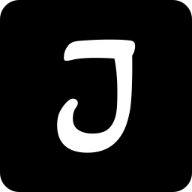
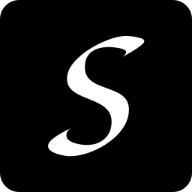
first commit

Changed region(s): [[0.25, 0.1875, 0.75, 0.8438]]

diff --git a/index.html b/index.html
@@ -4,7 +4,7 @@
 <head>
     <meta charset="utf-8">
     <meta name="viewport" content="width=device-width, initial-scale=1">
-    <title>Lakshmi Jyothi</title>
+    <title>Sai Sarayu</title>
 
     <link href="https://cdn.jsdelivr.net/npm/bootstrap@5.3.0/dist/css/bootstrap.min.css" rel="stylesheet"
         integrity="sha384-9ndCyUaIbzAi2FUVXJi0CjmCapSmO7SnpJef0486qhLnuZ2cdeRhO02iuK6FUUVM" crossorigin="anonymous">
@@ -13,6 +13,11 @@
         integrity="sha384-9ndCyUaIbzAi2FUVXJi0CjmCapSmO7SnpJef0486qhLnuZ2cdeRhO02iuK6FUUVM" crossorigin="anonymous">
 
     <link rel="stylesheet" href="https://cdn.jsdelivr.net/npm/bootstrap-icons@1.10.5/font/bootstrap-icons.css">
+
+    <link rel="apple-touch-icon" sizes="180x180" href="/apple-touch-icon.png">
+    <link rel="icon" type="image/png" sizes="32x32" href="/favicon-32x32.png">
+    <link rel="icon" type="image/png" sizes="16x16" href="/favicon-16x16.png">
+    <link rel="manifest" href="/site.webmanifest">
 
     <link rel="apple-touch-icon" sizes="180x180" href="/apple-touch-icon.png">
     <link rel="icon" type="image/png" sizes="32x32" href="/favicon-32x32.png">
@@ -32,7 +37,7 @@
     <!-- Navbar Start -->
     <nav class="navbar navbar-expand-lg navbar-dark bg-dark fixed-top">
         <div class="container-fluid">
-            <a class="Logo navbar-brand" href="#">Lakshmi Jyothi Portfolio</a>
+            <a class="Logo navbar-brand" href="#">Sai Sarayu Portfolio</a>
             <button class="navbar-toggler" type="button" data-bs-toggle="collapse" data-bs-target="#navbarNav"
                 aria-controls="navbarNav" aria-expanded="false" aria-label="Toggle navigation">
                 <span class="navbar-toggler-icon"></span>
@@ -68,8 +73,8 @@
         <div class="container-fluid">
             <div class="row">
                 <div class="col-md-12 bannerText">
-                    <h2 class="bannerTitle">I'm Lakshmi Jyothi</h2>
-                    <p class="bannerDesc">A Web Developer</p>
+                    <h2 class="bannerTitle">I'm Sai Sarayu</h2>
+                    <p class="bannerDesc">A Front-End Developer</p>
                 </div>
             </div>
         </div>
@@ -82,7 +87,7 @@
             <h1 class="text-center mainhead">About Me</h1>
             <div class="row">
                 <div class="myimg col-md-4">
-                    <img src="/Images/profilepic.jpg" alt="ProfilePicture" class="card-img img-fluid" style="height: 100vh; width: 45vh;">
+                    <img src="/Images/profilepic1.jpg" alt="ProfilePicture" class="card-img img-fluid" style="height: 90vh; width: 50vh;">
                 </div>
                 <div class="col-md-8">
                     <div class="intro shadow p-3 mb-5 rounded" style="background-color: transparent;">
@@ -90,14 +95,13 @@
                             <div class="card-body">
                                 <div class="h4 mt-0 title"></div>
                                 <p class="fline">
-                                    Hello! I am<span class="fname"> Lakshmi Jyothi Maram</span> Web Developer, and
+                                    Hello! I am<span class="fname"> Sai Sarayu Kothamachu</span> Front-End Developer, and
                                     Python programmer.
                                 </p>
                                 <p class="objec">
-                                    Student studying computer science for a B.Tech degree who is results-oriented and
-                                    extremely motivated. having a solid grounding in programming languages, data
-                                    structures, and algorithms, as well as being skilled in frontend technologies and
-                                    database management systems. I'm looking for a challenging role where I can use my
+                                    Student studying Electronics and Communications for a B.Tech degree who is results-oriented and
+                                    extremely motivated. Having a solid grounding in programming languages, data
+                                    structures, and algorithms, as well as being skilled in frontend technologies. I'm looking for a challenging role where I can use my
                                     knowledge of technology and enthusiasm for it to support a cutting-edge company. I
                                     hope to have a good influence by applying my problem-solving skills, collaborative
                                     talents, and commitment to excellence. I am committed to lifelong learning and
@@ -114,7 +118,7 @@
                                     <div class="col-sm-4">
                                         <strong class="sidehead text-uppercase bold-text">Full Name:</strong>
                                     </div>
-                                    <div class="col-sm-8">Maram Lakshmi Jyothi</div>
+                                    <div class="col-sm-8">Kothamachu Sai Sarayu</div>
                                 </div>
                                 <div class="row mt-3">
                                     <div class="col-sm-4">
@@ -126,20 +130,20 @@
                                     <div class="col-sm-4">
                                         <strong class="sidehead text-uppercase bold-text">Email:</strong>
                                     </div>
-                                    <div class="col-sm-8">maramjyothi23@gmail.com</div>
+                                    <div class="col-sm-8">kothamachusarayu@gmail.com</div>
                                 </div>
                                 <div class="row mt-3">
                                     <div class="col-sm-4">
                                         <strong class="sidehead text-uppercase bold-text">Phone:</strong>
                                     </div>
-                                    <div class="col-sm-8">+91 938-126-4088</div>
+                                    <div class="col-sm-8">+91 709-387-7922</div>
                                 </div>
                                 <div class="row mt-3">
                                     <div class="col-sm-4">
                                         <strong class="sidehead text-uppercase bold-text">Address:</strong>
                                     </div>
                                     <div class="col-sm-8">
-                                        No: 2-257, Old Town, Macherla, Palnadu.
+                                        No: 201- 2nd floor , Sri Vasavi towers, 15th-ward, Macherla, Palnadu.
                                     </div>
                                 </div>
                                 <div class="row mt-3">
@@ -180,32 +184,14 @@
                                     <div class="progress-title">
                                         <h4 class="skilltitle">Python Programming</h4>
                                         <div class="progress">
-                                            <div class="progress-bar" style="width: 80%; background: #ffcc33;">
-                                                <div class="progress-value">80%</div>
+                                            <div class="progress-bar" style="width: 70%; background: #ffcc33;">
+                                                <div class="progress-value">70%</div>
                                             </div>
                                         </div>
                                     </div>
                                 </div>
-                                <div class="col-md-12 mt-3">
-                                    <div class="progress-title">
-                                        <h4 class="skilltitle">MEAN Stack ( MongoDB, ExpressJS, AngularJS, NodeJS )</h4>
-                                        <div class="progress">
-                                            <div class="progress-bar" style="width: 50%; background: #ffcc33;">
-                                                <div class="progress-value">50%</div>
-                                            </div>
-                                        </div>
-                                    </div>
-                                </div>
-                                <div class="col-md-12 mt-3">
-                                    <div class="progress-title">
-                                        <h4 class="skilltitle">Java Programming</h4>
-                                        <div class="progress">
-                                            <div class="progress-bar" style="width: 75%; background: #ffcc33;">
-                                                <div class="progress-value">75%</div>
-                                            </div>
-                                        </div>
-                                    </div>
-                                </div>
+                                
+                                
                                 <div class="col-md-12 mt-3">
                                     <div class="progress-title">
                                         <h4 class="skilltitle">Data Structures</h4>
@@ -218,10 +204,10 @@
                                 </div>
                                 <div class="col-md-12 mt-3">
                                     <div class="progress-title">
-                                        <h4 class="skilltitle">Machine Learning</h4>
+                                        <h4 class="skilltitle">Computer Networks</h4>
                                         <div class="progress">
-                                            <div class="progress-bar" style="width: 75%; background: #ffcc33;">
-                                                <div class="progress-value">75%</div>
+                                            <div class="progress-bar" style="width: 60%; background: #ffcc33;">
+                                                <div class="progress-value">60%</div>
                                             </div>
                                         </div>
                                     </div>
@@ -243,50 +229,19 @@
                 <div class="col-md-6">
                     <div class="card my-3">
                         <div class="donepro card-body2">
-                            <h5 class="card-title text-center"><i class="bi bi-android2 BIcon"></i> Android Project
+                            <h5 class="card-title text-center"><i class="bi bi-car-front-fill"></i> VEHICLE ACCIDENT DETECTION SYSTEM USING IOT
                             </h5>
-                            <img src="/Images/AndroidProject.jpg" class="pro card-img-top" alt="..."
+                            <img src="/Images/iotproject.jpg" class="pro card-img-top" alt="..."
                                 style="height: 45vh; padding: 25px;">
                             <div class="card-body">
-                                <p class="prodesc card-text">This is a project in which my Team had created an Android
-                                    Application, which is used to identify and test the strength of the Bridges present
-                                    in the particular region.</p>
+                                <p class="prodesc card-text">My role as team lead in this project, In this device we used some sensor for detection and informing like Vibration Sensor for
+                                    Accident detection, IR Sensor for vehicles light detection, Ultra Sonic Sensor for vehicles sound detection, GPS Module for
+                                    accident location and GMS Module for messaging by the ARDUINO IDE.
+                                    </p>
                             </div>
                         </div>
                     </div>
                 </div>
-                <div class="col-md-6">
-                    <div class="card my-3">
-                        <div class="donepro card-body2">
-                            <h5 class="card-title text-center"><i class="bi bi-cpu BIcon"></i> Image Processing Project
-                            </h5>
-                            <img src="/Images/SatelliteProject.jpg" class="pro card-img-top" alt="..."
-                                style="height: 45vh; padding: 25px;">
-                            <div class="card-body">
-                                <p class="prodesc card-text">This is a project in which my Team had created a Model to
-                                    detect
-                                    the Forest Fire in the given particular image by creating the Masks for the Fire
-                                    Regions.
-                                </p>
-                            </div>
-                        </div>
-                    </div>
-                </div>
-                <div class="row">
-                    <div class="col-md-6">
-                        <div class="card my-3">
-                            <div class="undonepro card-body2">
-                                <h5 class="card-title text-center"><i class="bi bi-code-slash BIcon"></i> UpComing
-                                    Projects
-                                </h5>
-                                <img src="/Images/NewProject.png" class="undone card-img-top" alt="..."
-                                    style="height: 45vh; padding: 25px;">
-                                <div class="card-body">
-                                    <p class="prodesc card-text">Upcoming Projects</p>
-                                </div>
-                            </div>
-                        </div>
-                    </div>
                     <div class="col-md-6">
                         <div class="card my-3">
                             <div class="undonepro card-body2">
@@ -316,32 +271,32 @@
                         <img class="eduimg card-img-top" src="/Images/school.png" alt="Card image cap">
                         <div class="card-body">
                             <h3 class="headedu">HIGH SCHOOL</h3>
-                            <h5>Kids Patasala EM high School, Macherla</h5>
-                            <p class="studtext">Passed out in the year <b>2018</b> with a <b>CGPA of 10.0 </b>out of 10
+                            <h5>Sri Chaitanya Techno School, Macherla</h5>
+                            <p class="studtext">Passed out in the year <b>2018</b> with a <b>GPA of 9.0 </b>out of 10
                             </p>
                         </div>
                     </div>
                 </div>
                 <div class="col-md-4 col-lg-4 column">
                     <div class="mycard card" style="width: 18rem; height: 25rem;">
-                        <img class="eduimg card-img-top" src="/Images/clg.png" alt="Card image cap">
+                        <img class="eduimg card-img-top" src="/Images/bieap.jpg" alt="Card image cap">
                         <div class="card-body">
                             <h3 class="headedu">INTERMEDIATE</h3>
-                            <h5>Sri Chaitanya Junior College, Guntur</h5>
-                            <p class="studtext">Studied in the year <b>2018-2020</b> and passed out with a <b>marks of
-                                    976/1000 </b></p>
+                            <h5>Palnadu Junior College, Macherla</h5>
+                            <p class="studtext">Studied in the year <b>2018-2020</b> and passed out with a <b>GPA of 
+                                    8.17 out of 10</b></p>
                         </div>
                     </div>
                 </div>
                 <div class="col-md-4 col-lg-4 column">
                     <div class="mycard card" style="width: 25rem; height: 25rem;">
-                        <img class="eduimg card-img-top" src="/Images/VRSE.jpg" alt="Card image cap">
+                        <img class="eduimg card-img-top" src="/Images/MPES.jpg" alt="Card image cap">
                         <div class="card-body">
                             <h3 class="headedu">BACHELOR'S DEGREE</h3>
-                            <h6> - COMPUTER SCIENCE AND ENGINEERING</h6>
-                            <h5>V R Siddhartha Engineering College, Kanuru</h5>
+                            <h6> - ELECTRONICS AND COMMUNICATIONS OF ENGINEERING</h6>
+                            <h6>MALINENI PERUMALLU EDUCATIONAL SOCIETY'S GROUP OF INSTITUTIONS, Guntur</h6>
                             <p class="studtext">Studying currently, and will going to passed out in <b>2024</b> at
-                                present my CGPA was <b>9.20</b></p>
+                                present my CGPA was <b>7.31</b></p>
                         </div>
                     </div>
                 </div>
@@ -376,7 +331,7 @@
         </div>
     </section>
 -->
-
+<!--
     <section class="educ2">
         <div class="container">
             <div class="row">
@@ -560,6 +515,7 @@
             </div>
         </div>
     </section>
+-->
 
 
     <!-- Contact Start -->
@@ -568,10 +524,8 @@
             <h1 class="mainhead pt-3 text-center">Connect with me !!</h1>
             <div class="row">
                 <div class="col-md-6">
-                    <iframe
-                        src="https://www.google.com/maps/embed?pb=!1m18!1m12!1m3!1d3825.6189665371917!2d80.68657747501416!3d16.49482048424803!2m3!1f0!2f0!3f0!3m2!1i1024!2i768!4f13.1!3m3!1m2!1s0x3a35fb3cd8a69f41%3A0x9a0e1b5a776b918!2sVelagapudi%20Ramakrishna%20Siddhartha%20Engineering%20College!5e0!3m2!1sen!2sin!4v1687947777282!5m2!1sen!2sin"
-                        width="400" height="400" style="border:0;margin-left: auto;margin-right: auto;display: block;"
-                        allowfullscreen="" loading="lazy" referrerpolicy="no-referrer-when-downgrade"></iframe>
+                    <iframe src="https://www.google.com/maps/embed?pb=!1m18!1m12!1m3!1d3830.4731867787577!2d80.40625607489774!3d16.247501134641226!2m3!1f0!2f0!3f0!3m2!1i1024!2i768!4f13.1!3m3!1m2!1s0x3a4a745fc35f97fd%3A0x692986c44aaa5505!2sMalineni%20Perumallu%20Educational%20Society&#39;s%20Group%20Of%20Institutions!5e0!3m2!1sen!2sin!4v1691755143526!5m2!1sen!2sin" width="600" height="450" style="border:0;" allowfullscreen="" loading="lazy" referrerpolicy="no-referrer-when-downgrade"></iframe>
+
                 </div>
                 <div class="connect col-md-6">
                     <form>
@@ -630,12 +584,12 @@
 
                     <!-- Instagram -->
                     <a class="btn btn-outline-light btn-floating m-1"
-                        href="https://www.instagram.com/sandeep_veerendra/" role="button" target="_blank"><i
+                        href="https://www.instagram.com/sarayukothamachu/" role="button" target="_blank"><i
                             class="bi bi-instagram"></i></a>
 
                     <!-- Linkedin -->
                     <a class="btn btn-outline-light btn-floating m-1"
-                        href="https://www.linkedin.com/in/g-g-v-v-s-sandeep-srikar-18434621a/" role="button"
+                        href="https://www.linkedin.com/in/sarayu-kothamachu-53526124b/" role="button"
                         target="_blank"><i class="bi bi-linkedin"></i></a>
 
                     <!-- Github -->

diff --git a/CSS/style.css b/CSS/style.css
@@ -1,5 +1,5 @@
 .bannerImage {
-    background: url(/Images/bg.jpg);
+    background: url(/Images/bg3.jpg);
     height: 100vh;
     background-size: cover;
     position: relative;
